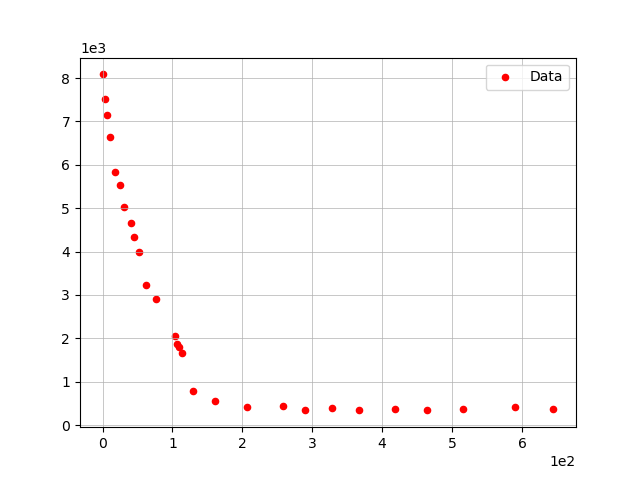
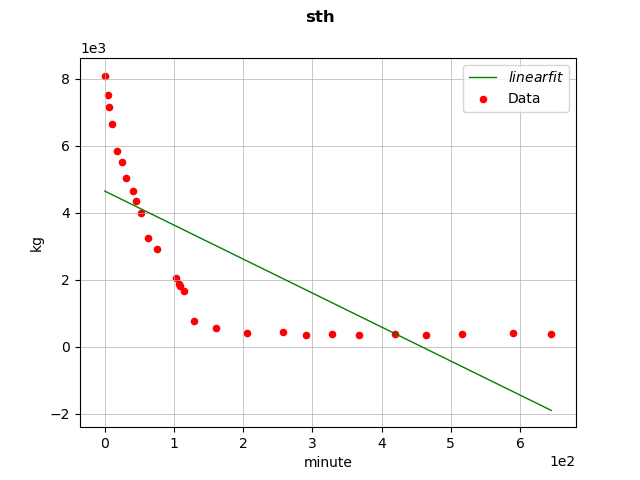
Dodan polynomial fit, dodan accounts.json, dodan bootstrap v naslov.tpl

diff --git a/ustvarjalec_grafov.py b/ustvarjalec_grafov.py
@@ -8,11 +8,6 @@ import os
 
 
 
-
-def polynomial_fit(x, degree, *args): #treba dokončat
-    #for i in range(str(degree)):
-    return a*x + b 
-
 def exponential_fit(x,a,b,c):
     return a * np.exp(-b*x) + c
 
@@ -52,9 +47,17 @@ def make_graph(filename, tittle = None, x_label = None, y_label = None, fit = No
 
     x = np.linspace(np.amin(x_values), np.amax(x_values), 500)
 
-    if fit == 'linear': #še ni delujoč
-        param, cov = curve_fit(linear_fit, x_values, y_values)
-        ax.plot(x, linear_fit(x, param[0], param[1]) , label=r"$linear fit$", color="green", linewidth="1")
+    if fit == 'linear':
+        param = np.polyfit(x_values, y_values, 1)
+        ax.plot(x, np.poly1d(param)(x), label=r"$linear fit$", color="green", linewidth="1")
+
+    if fit == 'quadratic':
+        param = np.polyfit(x_values, y_values, 2)
+        ax.plot(x, np.poly1d(param)(x), label=r"$quadratic fit$", color="green", linewidth="1")
+
+    if fit == 'cubic':
+        param = np.polyfit(x_values, y_values, 3)
+        ax.plot(x, np.poly1d(param)(x), label=r"$cubic fit$", color="green", linewidth="1")
 
     if fit == 'exponential':
         param, cov = curve_fit(exponential_fit, x_values, y_values) 

diff --git a/login_manager.py b/login_manager.py
@@ -4,11 +4,12 @@ import json
 
 
 def add_account(username, password): #treba dodati pogoje za dobro geslo in username
-    with open(os.path.join(os.getcwd(),'..', "database", "accounts.json"), "r") as file:
+    with open(os.path.join(os.getcwd(),'..', "database", "accounts.json"), "r+") as file:
         accounts = json.load(file)
         new_account = {"username": username, "password" : password, "graphs" : []}
-        accounts['people'].append(new_account)  
-        json.dump(accounts, file, indent = 4)
+        accounts['people'].append(new_account) 
+        file.seek(0)
+        json.dump(accounts, file, indent = 1)
 
 def correct_password(username, password):
     with open(os.path.join(os.getcwd(),'..', "database", "accounts.json"), "r") as file:

diff --git a/spletni_streznik.py b/spletni_streznik.py
@@ -23,8 +23,16 @@ def login_get():
 def login_post():
     username = bottle.request.forms['username']
     password = bottle.request.forms['password']
-    # cookies = bottle.request.GET.get("first_login")
-    # print(cookies)
+    # first_time_user = bottle.request.get("first_login")
+    # v = bottle.request.post("vehicle1")
+    # print(first_time_user)
+    # print(password)
+    # print(v)
+    first_time_user = 1
+    if first_time_user: #tukaj naprej bom nastavil piškotke
+        add_account(username = username, password = password)
+    else:
+        correct_password(username = username, password = password)
     return bottle.template('login.tpl')
 
 @bottle.get('/')
